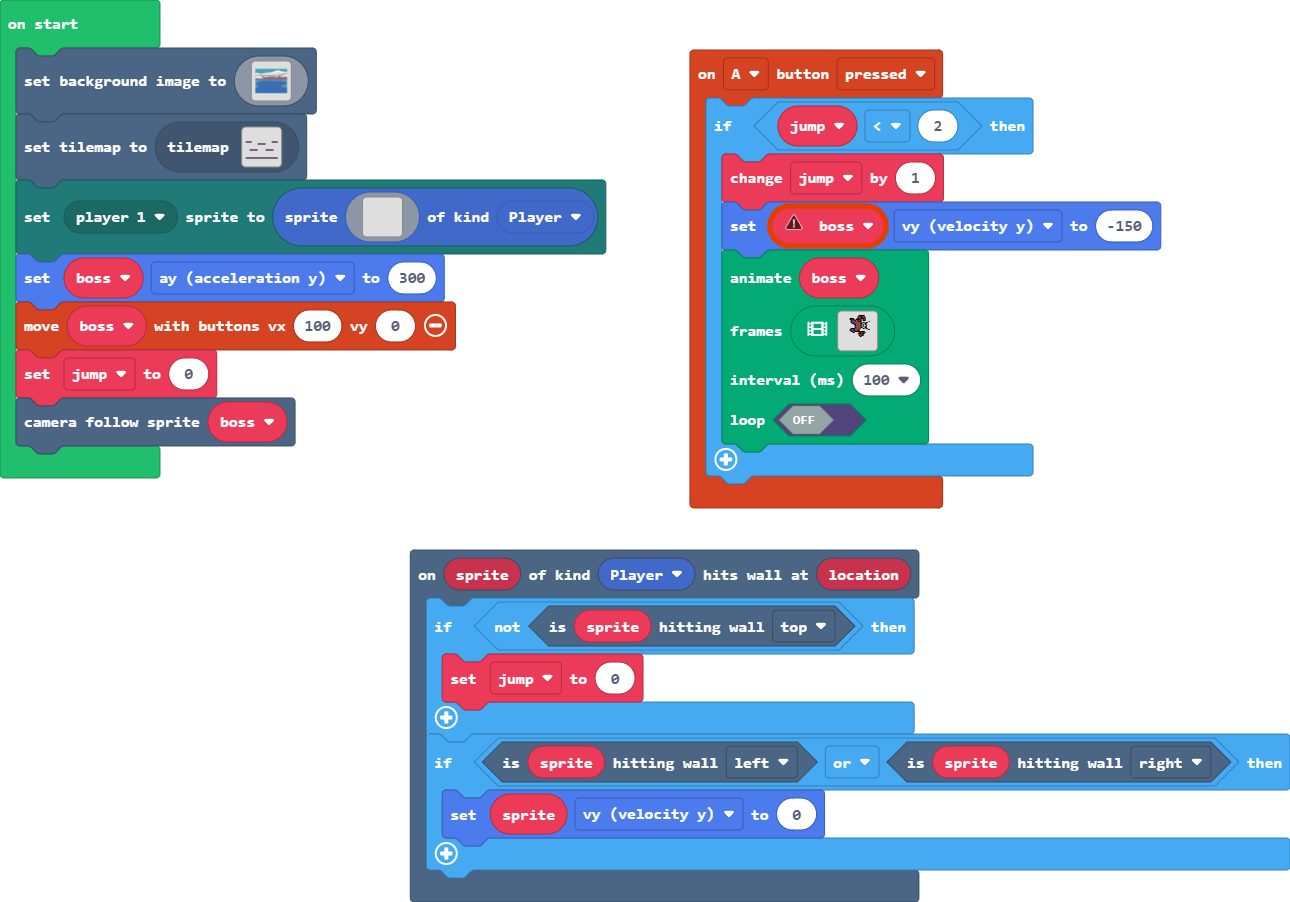
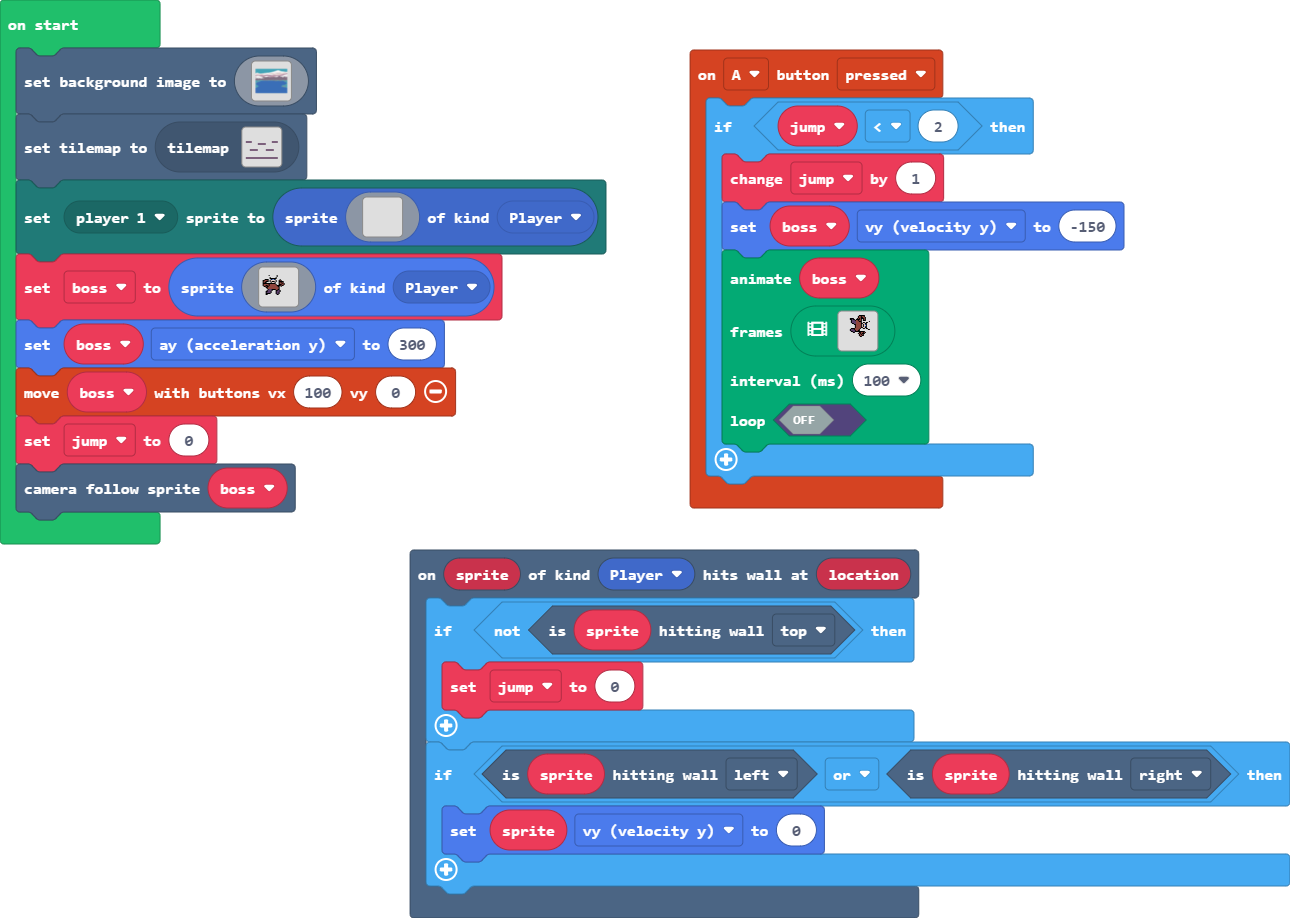
Update main.blocks, main.ts

Changed region(s): [[0.3101, 0.0621, 1.0, 0.9623], [0.0, 0.0621, 0.4651, 0.6208], [0.031, 0.0, 0.062, 0.031]]

diff --git a/main.ts b/main.ts
@@ -309,6 +309,40 @@ mp.setPlayerSprite(mp.playerSelector(mp.PlayerNumber.One), sprites.create(img`
     ................................
     ................................
     `, SpriteKind.Player))
+boss = sprites.create(img`
+    ................................
+    ................................
+    ................................
+    ................................
+    ......f.......f.................
+    ..............f.................
+    .......f.....f..................
+    .......fffffff..................
+    ..ffff..f8d8f....f..............
+    ffeeef.fdddddf..fef.............
+    feefff.fdfffdf..fffff...........
+    feff....fdddf...fefef...........
+    fffffffffffff...feefef..........
+    feeeeefeeeeeef..fffeef..........
+    feeffefeeeeeeeffffeff...........
+    .ffeffeeeeeeeeeff.f.............
+    ...ffeeeeeeeeeeef...............
+    ....feeeeeeeeeeef...............
+    .....fcccffffeeff...............
+    ....fccccf...ffccf..............
+    ...ffcccf....fcccf..............
+    ...fccccf....fccf...............
+    ...fffff.....fccf...............
+    ...ff.........ff................
+    ................................
+    ................................
+    ................................
+    ................................
+    ................................
+    ................................
+    ................................
+    ................................
+    `, SpriteKind.Player)
 boss.ay = 300
 controller.moveSprite(boss, 100, 0)
 jump = 0
